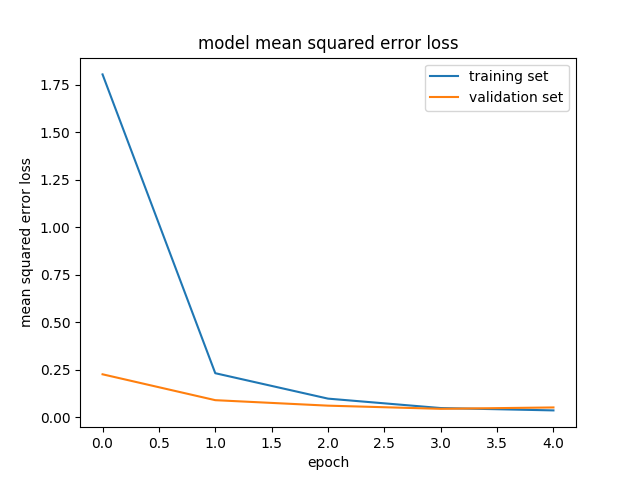
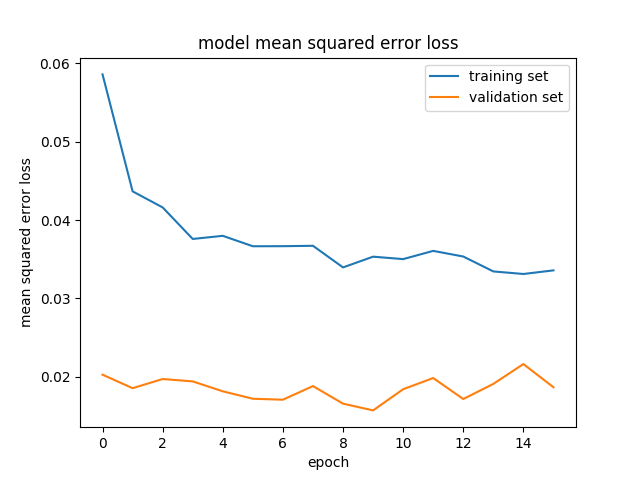
refactor: Added documentation removed Elu version of Nvidia model

diff --git a/train.py b/train.py
@@ -1,5 +1,5 @@
-from models import LeNetKerasMSE, Simple
-from data_pipe import load_meta, generator
+from models import LeNetKerasMSE, Simple, NvidiaNet
+from data_pipe import *
 from keras.callbacks import EarlyStopping
 from math import ceil
 from matplotlib import pyplot as plt
@@ -9,21 +9,30 @@ plt.switch_backend('agg')
 outmodelname = 'models/model.h5'
 
 ch, row, col = 3, 160, 320  # Image shape
-batch_size = 128
+batch_size = 256
+keep_prob = .9
+min_angle = -1000.0
+max_angle = 1000.0
 
-early_stopping = EarlyStopping(monitor='val_loss', patience=10)
+early_stopping = EarlyStopping(monitor='val_loss', patience=5)
 
-train_samples, validation_samples = load_meta()
-train_generator = generator(train_samples, batch_size=batch_size)
-validation_generator = generator(train_samples, batch_size=batch_size)
+train_samples, validation_samples = load_meta_new(exclude_track=None)
 
-model = Simple((row,col,ch))
+train_generator = generator_new(train_samples,
+                                batch_size,
+                                keep_prob=keep_prob,
+                                min_angle = min_angle,
+                                max_angle = max_angle)
+
+validation_generator = generator_validation(validation_samples,
+                                            batch_size=batch_size)
+
+model = NvidiaNet((row,col,ch), dropout=.3)
 
 model.compile(loss='mse', optimizer='adam')
 
-
-steps_per_epoch = ceil(len(train_samples) / batch_size)
-validation_steps = ceil(len(validation_samples) / batch_size)
+steps_per_epoch = len(train_samples) // batch_size
+validation_steps = len(validation_samples) // batch_size
 
 print('Number of training steps {}'.format(steps_per_epoch))
 print('Number of validation steps {}'.format(validation_steps))
@@ -32,7 +41,7 @@ history_object = model.fit_generator(train_generator,
                                      steps_per_epoch=steps_per_epoch,
                                      validation_data=validation_generator,
                                      validation_steps=validation_steps,
-                                     epochs=5,
+                                     epochs=100,
                                      callbacks=[early_stopping],
                                      verbose = 1
                                      )

diff --git a/models.py b/models.py
@@ -6,6 +6,12 @@ from keras.layers import Cropping2D
 
 
 def Simple(input_shape):
+    """
+    Super simple model just normaliztion and single layer
+    :param input_shape: 
+    :return: 
+    """
+
     model = Sequential()
 
     #normalization
@@ -49,13 +55,25 @@ def LeNetKerasMSE(input_shape, dropout=.3 ):
 
 
 def NvidiaNet(input_shape, dropout = .3):
+    """
+    Implement the Nvidia model for self driving cars
+    https://devblogs.nvidia.com/parallelforall/deep-learning-self-driving-cars/
+    :param input_shape: shape of the images (r,w,c)
+    :param dropout: 
+    :return: 
+    """
+
     model = Sequential()
 
     # normalization
     model.add(Lambda(lambda x: x / 127.5 - 1., input_shape=input_shape))
-    model.add(Cropping2D(cropping=((70, 25), (0, 0))))
+    model.add(Cropping2D(cropping=((65, 25), (0, 0))))
 
-    model.add(Conv2D(24, kernel_size=(5, 5), strides=(2,2), activation='relu'))
+    # Allow the model to choose the appropriate color space
+    # https://chatbotslife.com/using-augmentation-to-mimic-human-driving-496b569760a9
+    model.add(Conv2D(3, kernel_size=(1, 1), strides=(1, 1), activation='linear'))
+
+    model.add(Conv2D(24, kernel_size=(5, 5), strides=(2, 2), activation='relu'))
     model.add(Conv2D(36, kernel_size=(5, 5), strides=(2, 2), activation='relu'))
     model.add(Conv2D(48, kernel_size=(5, 5), strides=(2, 2), activation='relu'))
 
@@ -63,7 +81,6 @@ def NvidiaNet(input_shape, dropout = .3):
     model.add(Conv2D(64, kernel_size=(3, 3), activation='relu'))
 
     model.add(Flatten())
-
     model.add(Dense(1164, activation='relu'))
     model.add(Dropout(dropout))
     model.add(Dense(100, activation='relu'))
@@ -71,6 +88,7 @@ def NvidiaNet(input_shape, dropout = .3):
     model.add(Dense(50, activation='relu'))
     model.add(Dropout(dropout))
     model.add(Dense(10, activation='relu'))
+
     model.add(Dense(1, activation='linear'))
 
     return model
